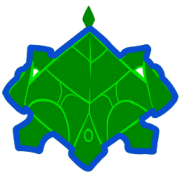
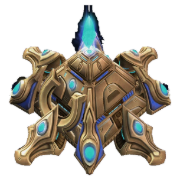
feat(branding): swap the Brood War Nexus mark for the StarCraft II Nexus
The mark was the StarCraft: Brood War (Remastered) Nexus. Replace it with the
StarCraft II Nexus: assets/branding/nexus-sc2-master.png is the StarCraft Wiki
DevRend3 render (568x575 on black) with the background keyed out — flood fill
from the border so dark pixels inside the silhouette survive, feathered edge,
unpremultiplied colours, padded square. apple-icon.png (180x180), icon.png
(64x64) and favicon.ico (PNG-in-ICO 16/32/48) are generated from that master.

No app code changes: SidebarBrand already imports apple-icon.png. AGENTS.md ->
Branding records the provenance and the recipe.

diff --git a/AGENTS.md b/AGENTS.md
@@ -141,17 +141,22 @@ assumed — Herdr's label disagreed with the harnesses in three different ways:
 
 ## Branding
 
-- The app's mark is the StarCraft Protoss Nexus art. Source of truth:
-  `src/app/apple-icon.png` (180×180, RGBA, transparent background). `src/app/icon.png`
-  (64×64) and `src/app/favicon.ico` are the same art downsized for browser metadata,
-  wired through the `icons` block in `src/app/layout.tsx`. Reuse this art — do not
-  redraw it, and do not add a second divergent copy.
+- The app's mark is the StarCraft II Protoss Nexus (Wings of Liberty era): Blizzard
+  art, personal use only, taken from the StarCraft Wiki file `Nexus SC2 DevRend3.jpg`
+  (`starcraft.fandom.com`) — a 568×575 render on a black background.
+- Source of truth: `assets/branding/nexus-sc2-master.png` (610×610, RGBA). It is that
+  render with the black background keyed out — flood fill from the border, so dark
+  pixels inside the silhouette survive; one-pixel feathered edge; colours
+  unpremultiplied; padded to a square. The files under `src/app/` are **generated**
+  from it and are never hand-edited: `apple-icon.png` (180×180, the one the UI
+  imports), `icon.png` (64×64) and `favicon.ico` (PNG-in-ICO at 16/32/48), wired
+  through the `icons` block in `src/app/layout.tsx`. Do not redraw the art, do not add
+  a `public/` copy, and never upscale `icon.png`.
 - In the UI it renders in `SidebarBrand` (`src/app/(main)/_components/sidebar-nav.tsx`),
   which the desktop rail and the mobile drawer share: `next/image` imports
-  `apple-icon.png` directly — no `public/` file — at an explicit 32×32 in the brand
-  block's `size-8` slot, so the block cannot shift on load. The art is transparent, so
-  it sits on the sidebar as-is: never put a coloured plate behind it, and never
-  upscale the 64×64 `icon.png`.
+  `apple-icon.png` directly at an explicit 32×32 in the brand block's `size-8` slot, so
+  the block cannot shift on load. The art is transparent, so it sits on the sidebar
+  as-is: never put a coloured plate behind it.
 
 ## Code conventions
 
